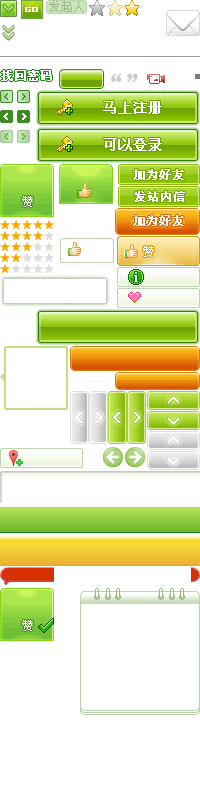
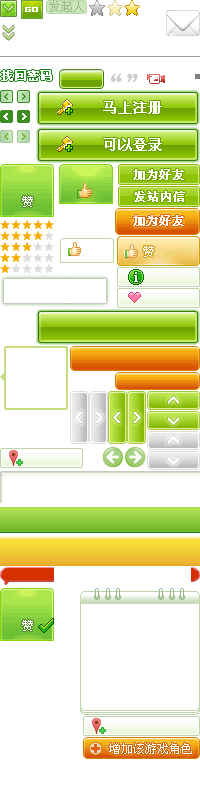
game items is changing

Changed region(s): [[0.39, 0.875, 1.0, 0.9688]]

diff --git a/public/stylesheets/home.css b/public/stylesheets/home.css
@@ -256,7 +256,7 @@ a:hover{color:#D63200;}
 .piclist-rows table .imgwrap img{width:100px;height:100px;}
 .piclist-rows table .data{margin-left:125px;_margin-left:122px;line-height:21px;}
 .piclist-rows table .data h3,.piclist-rows table .data span,.piclist-rows table .data .link a{color:#25700D}
-.piclist-rows table .data a{color:#D63200}
+/*.piclist-rows table .data a{color:#D63200}*/
 .piclist-rows table .data a:hover{text-decoration:underline}
 
 /*各种图片尺寸定义*/
@@ -818,7 +818,7 @@ a.impress-btn-8,a.impress-8:hover{background-position:0 -574px;color:#fff;}
 .i-show02 a{display:block;float:left;}
 .i-show02 a strong,.i-show02 a span{display:block;height:19px;line-height:19px;text-align:center;cursor:pointer;word-break:keep-all;white-space:nowrap}
 .i-show02 a:hover,.i-show02 a:hover span{background:url(../images/skin/btn2010.png) no-repeat}
-.i-show02 a:hover{color:#fff;}
+.i-show02 a:hover strong{color:#fff;}
 .i-show02 a strong{float:left;padding-left:6px;font-weight:400}
 .i-show02 a span{width:6px;float:left}
 a.i-s-0:hover{background-position:0 -150px;}
@@ -1109,9 +1109,6 @@ h1.app-share{float:left}
 .archives-box .edit .con .icon-active{margin:8px 0 0 5px}
 .archives-box .edit .con .textfield{width:190px}
 .archives-box .edit .con2 .textfield{width:120px}
-/*.archives-box .edit .con2 .selector{width:100px;margin-left:5px}
-.archives-box .edit .con2 .selector input{width:60px;}
-*/
 .archives-box .edit .con p.foot{border-bottom:1px solid #9ace5f;line-height:30px;margin:0 20px}
 
 
@@ -1223,10 +1220,6 @@ h1.app-share{float:left}
 .pager-simple .last{background-position:-17px -130px;cursor:default}
 
 /*论坛*/
-/*.forum .col-left{width:590px;float:left;}
-.forum .col-right{width:150px;float:right;}
-.forum .col-right .photolist-box li{margin:5px}
-*/
 .forum h2{background:#f8f8f8;border-top:1px solid #c2e29d;padding:5px;font-weight:700;margin-bottom:10px}
 .forum h2 a{font-weight:400;font-size:12px}
 .forum h2 .op{float:right;}
@@ -1285,3 +1278,30 @@ h1.app-share{float:left}
 .info-content .sub-con{border:1px dashed #ccc;margin:10px;padding:10px;font-size:12px;line-height:22px}
 .info-content p{text-indent:2em;margin:3px 0}
 .info-foot span{margin:0 8px}
+
+/*v2 start 100513*/
+/*btn*/
+.addGameRoleBtn{background:url(../images/skin/skin2010.png) no-repeat -83px -737px;width:117px;height:22px;display:inline-block}
+/*热门游戏*/
+.gameList .data p a{color:#d63200}
+.gameList .data ul{margin-top:10px;}
+.gameList .data ul li{float:left;height:24px;width:200px;margin:5px 5px 0 0;font-weight:700}
+.gameList .data ul li span.thin{font-weight:400;color:#333}
+.gameList .data ul li span.thin a{text-decoration:underline}
+.gameList .data ul li strong,.gameList .data ul a{color:#25700d}
+/*我的游戏*/
+.gameList .data .score strong{color:#25700d}
+.gameMine .gameList .data ul li{width:220px;}
+.gameMine .gameList .data ul li.guildInfo,.gameMine .gameList .data ul li.gameImpress{width:350px;}
+.gameList .data .roleInfo strong,.gameList .data .roleInfo span,.gameList .data .guildInfo{line-height:22px;overflow:hidden;}
+.gameList .data .roleInfo strong,.gameList .data .roleInfo span{display:block;width:110px;height:24px;float:left}
+.gameList .data .roleInfo span{width:100px;margin-left:10px}
+/*好友的游戏*/
+.gameImpressFriend h4,.gameImpressFriend .i-show02{float:left}
+.gameFriend .data .i-show02 a:hover{text-decoration:none}
+.gameList .data .photolist-box{_width:98%}
+.gameList .data .photolist-box ul li{height:auto;width:70px;margin:5px}
+.gameList .data .photolist-box ul li a{color:#666;font-weight:400}
+.gameList .data span.shine{color:#F08E0C}
+.gameFriend .more{text-align:right;}
+.gameFriend .data .more a{color:#25700d;text-decoration:underline}

diff --git a/public/stylesheets/common.css b/public/stylesheets/common.css
@@ -1,10 +1,10 @@
 body{font-size:12px;font-family:Arial,Simsun,"宋体",Helvetica;color:#0a3100;height:100%}
-body,div,form,img,ul,li,p,pre,button,dd,dt,dl{margin:0; padding:0;border:0;}
+body,div,form,img,ul,ol,li,p,pre,button,dd,dt,dl{margin:0; padding:0;border:0;}
 table{border:0;border-collapse:collapse;border-spacing:0;}
 h1,h2,h3,h4,h5,h6,fieldset{margin:0; padding:0;}
 
 
-ul {list-style:none;}
+ul,ol{list-style:none;}
 input{font-size:12px;vertical-align:middle}
 textarea{font-size:12px;overflow:auto;color:#7E7F80;border:1px solid #bdd6ad}
 select{color:#7E7F80;}
@@ -51,9 +51,9 @@ a:active {text-decoration: none;}
 
 .left{float:left;}
 .right{float:right;}
-.s_clear:after{content:".";display:block;height:0;clear:both;visibility:hidden;}
-.s_clear{zoom:1;}
-.rows,.buttons{clear:both;}
+.fix:after,.s_clear:after{content:".";display:block;height:0;clear:both;visibility:hidden;}
+.fix,.s_clear{zoom:1;}
+.clear,.rows,.buttons{clear:both;}
 
 .blk{display:block}
 .nowrap,.member-name,.role-name{overflow:hidden;text-overflow:ellipsis;-o-text-overflow:ellipsis;word-wrap:normal;white-space:nowrap;word-break:keep-all;display:inline-block;}
@@ -258,10 +258,11 @@ a.button-gray,a.button-gray:hover{font-weight:normal;color:#666}
 .button-gray span{background-position:0 -25px;}
 .button-gray span button,.button-gray span a{font-weight:normal;color:#666}
 
-.attention-btn,.love-btn,.share-btn,.concern-btn{background:url(../images/skin/skin2010.png) no-repeat;display:inline-block;width:83px;height:20px;line-height:20px;text-align:center;text-indent:25px;color:#508119}
+.attention-btn,.love-btn,.share-btn,.concern-btn,.concern-btn02{background:url(../images/skin/skin2010.png) no-repeat;display:inline-block;width:83px;height:20px;line-height:20px;text-align:center;text-indent:25px;color:#508119}
 .attention-btn{background-position:-117px -267px;}
 .love-btn,.share-btn{background-position:-117px -288px;}
 .concern-btn{background-position:0 -448px}
+.concern-btn02{background-position:-83px -716px;width:117px;display:block}
 
 .icon-active{display:inline-block;width:8px;height:8px;line-height:normal;font-size:1px;background:url(../images/icons/homeIcons.gif) no-repeat 0 -1156px;}
 .icon-active-del{background-position:0 -1182px;}
@@ -587,8 +588,9 @@ a.msg-btn{background-position:-118px -186px}
 .im-bar{width:159px;color:#666}
 .im-bar .r-m{background-position:0 -53px;padding:15px 10px}
 	.im-title{line-height:20px}
+	.im-title strong{width:70px;overflow:hidden;text-overflow:ellipsis;-o-text-overflow:ellipsis;word-wrap:normal;white-space:nowrap;word-break:keep-all;}
 		.im-state{background-position:0 -27px;width:30px;height:18px;position:relative;z-index:2}
-		.im-state .selector01 .drop-wrap {width:55px;}
+		.im-state .selector01 .drop-wrap {width:55px;left:-100%;}
 		.im-state .selector01 dl dd a{padding:0}
 		.im-state .selector01 dd a:hover{background:#f8fef5;color:#25700d;}
 		.im-online,.im-busy,.im-leave,.im-hide{width:18px;height:18px;display:inline-block;vertical-align:middle}
